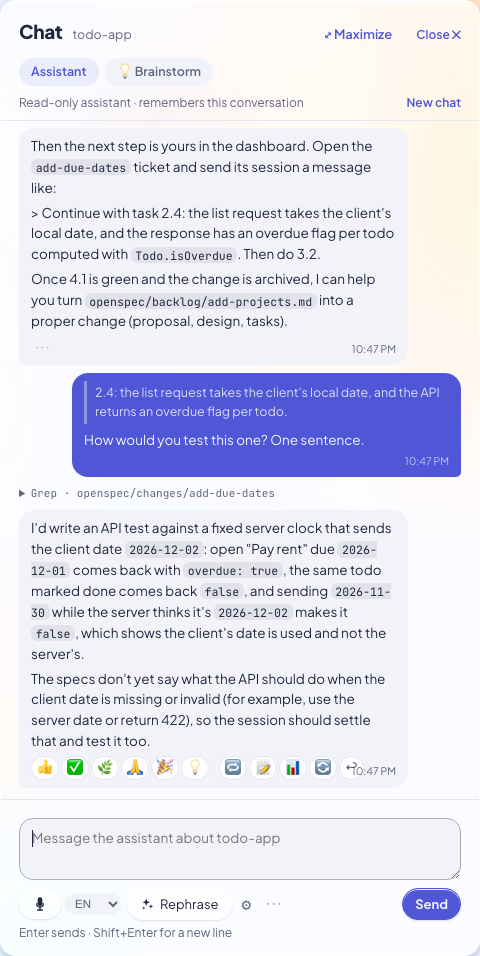
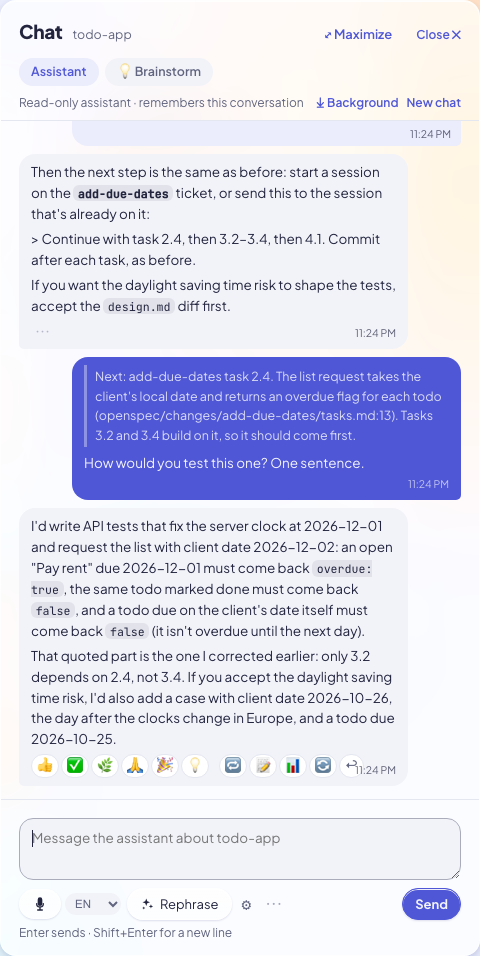
Proposed files: a new ticket draft in openspec/backlog/ can be accepted; Background as a link in the chat bar
- accepting a proposal that creates openspec/backlog/<name>.md failed (new files were only allowed below
  openspec/changes/); a draft directly in openspec/backlog/ is allowed now, subfolders and openspec/specs/ are not
- ⤓ Background sits next to New chat (and Ticket →) instead of in a row of its own; the chat pictures retaken

diff --git a/tools/openspec-dashboard/index.html b/tools/openspec-dashboard/index.html
@@ -4263,14 +4263,14 @@ function barHtml(c) {
   }
   if (c.brainstorm) {
     const idea = c.jobs.find((j) => j.idea)?.idea;
-    return c.jobs.length ? `<div class="ag-row"><span class="ag-note">Brainstorming${idea ? ` on the idea <code>${esc(idea)}</code>` : ''} · read-only · nothing is saved until you save the ticket</span><button class="link" type="button" data-ag-new style="margin-left:auto">New brainstorm</button><button class="btn" type="button" data-ag-chat-bg title="Keep it working in the background: the button with the number in the header shows how it is doing and when the answer is in">⤓ Background</button></div>` : '';
+    return c.jobs.length ? `<div class="ag-row"><span class="ag-note">Brainstorming${idea ? ` on the idea <code>${esc(idea)}</code>` : ''} · read-only · nothing is saved until you save the ticket</span><button class="link" type="button" data-ag-chat-bg style="margin-left:auto" title="Keep it working in the background: the button with the number in the header shows how it is doing and when the answer is in">⤓ Background</button><button class="link" type="button" data-ag-new>New brainstorm</button></div>` : '';
   }
-  if (!c.session) return c.jobs.length ? `<div class="ag-row"><span class="ag-note">Read-only assistant · remembers this conversation</span><button class="link" type="button" data-ag-new style="margin-left:auto">New chat</button><button class="btn" type="button" data-ag-chat-bg title="Keep it working in the background: the button with the number in the header shows how it is doing and when the answer is in">⤓ Background</button></div>` : '';
+  if (!c.session) return c.jobs.length ? `<div class="ag-row"><span class="ag-note">Read-only assistant · remembers this conversation</span><button class="link" type="button" data-ag-chat-bg style="margin-left:auto" title="Keep it working in the background: the button with the number in the header shows how it is doing and when the answer is in">⤓ Background</button><button class="link" type="button" data-ag-new>New chat</button></div>` : '';
   const j = c.last;
   return `<div class="ag-row"><span class="pill" style="--st:${stVar(JOB_ST[j.status])}">${JOB_LABEL[j.status] ?? j.status}</span>
       ${j.status === 'running' ? `<button class="btn" type="button" data-ag-control="end" data-job="${esc(j.id)}" title="Finish the current turn, then end">End after this turn</button><button class="btn" type="button" data-ag-control="stop" data-job="${esc(j.id)}">Stop now</button>` : ''}
       ${j.status === 'idle' ? `<button class="btn" type="button" data-ag-control="end" data-job="${esc(j.id)}">End session</button>` : ''}
-      <button class="link" type="button" data-agent="${esc(j.change)}" style="margin-left:auto">Ticket →</button><button class="btn" type="button" data-ag-chat-bg title="Keep it working in the background: the button with the number in the header shows how it is doing and when the answer is in">⤓ Background</button></div>
+      <button class="link" type="button" data-ag-chat-bg style="margin-left:auto" title="Keep it working in the background: the button with the number in the header shows how it is doing and when the answer is in">⤓ Background</button><button class="link" type="button" data-agent="${esc(j.change)}">Ticket →</button></div>
     <div class="ag-note">${alive(j) ? 'Your messages go straight to this session.' : 'Ended. A message continues it.'} Take over in a terminal${alive(j) ? ' once it has ended' : ''}: <code>claude --resume ${esc(j.sessionId)}</code></div>`;
 }
 function ticketItem(j) {

diff --git a/tools/openspec-dashboard/README.md b/tools/openspec-dashboard/README.md
@@ -400,7 +400,7 @@ Started with `--agent`, the dashboard talks to Claude Code in two places:
   content and asks what should change (with suggestions per tab; the discussion of that tab can be included);
   **Propose** (or a request in the chat) makes the assistant write the complete new version of the file in a ```` ```edit <path> ```` block. The dashboard shows it as a diff against the
   file as it is now; **Accept** writes it, **Reject** drops it. The assistant stays read-only: only Accept writes,
-  only Markdown under `openspec/` (new files only below `openspec/changes/`), and only if the file is unchanged
+  only Markdown under `openspec/` (new files only below `openspec/changes/`, or a draft directly in `openspec/backlog/`), and only if the file is unchanged
   since the preview.
 - **Agent…** on a ticket, with the ticket's context added automatically:
   - **Ask**: a read-only question about the ticket; "Ask about this task" next to the current task prefills one.
